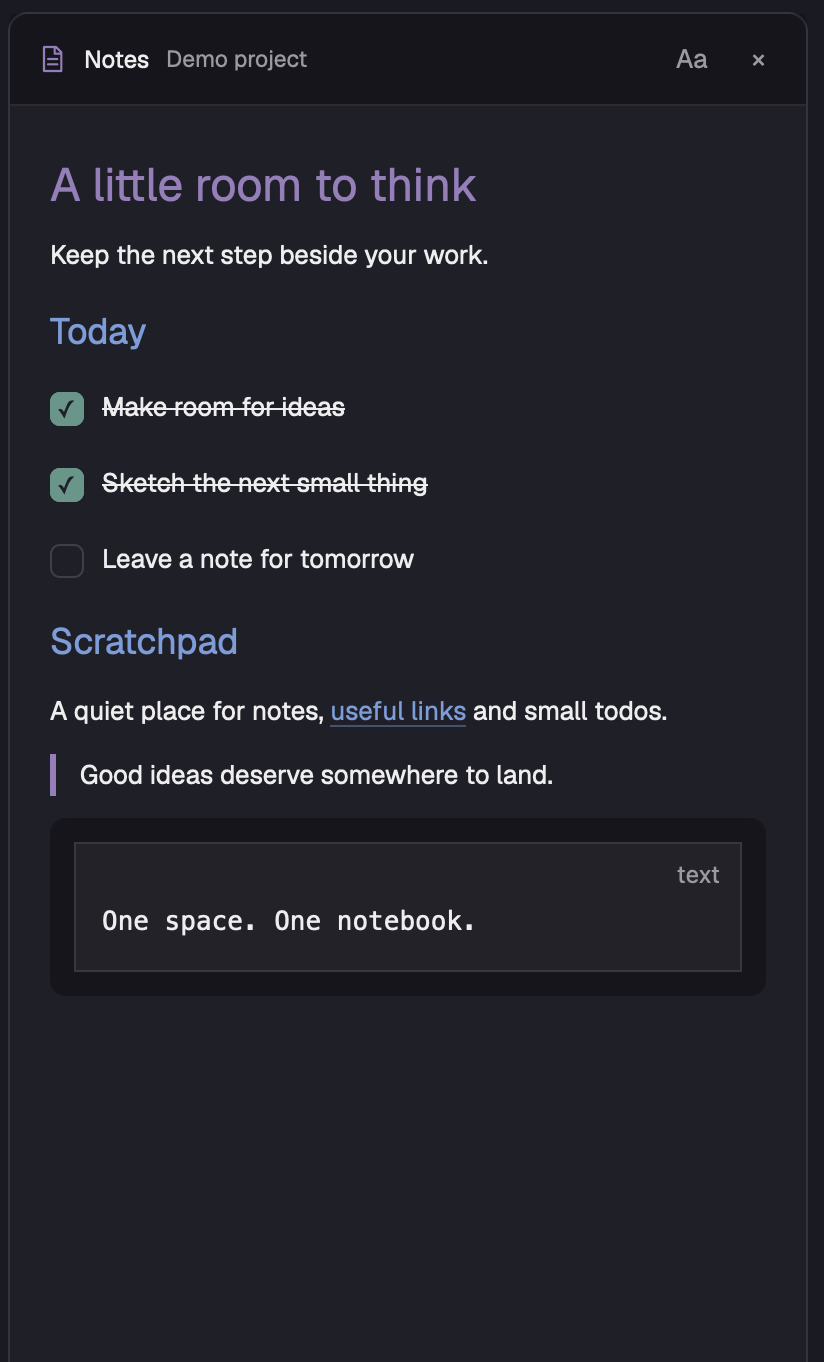
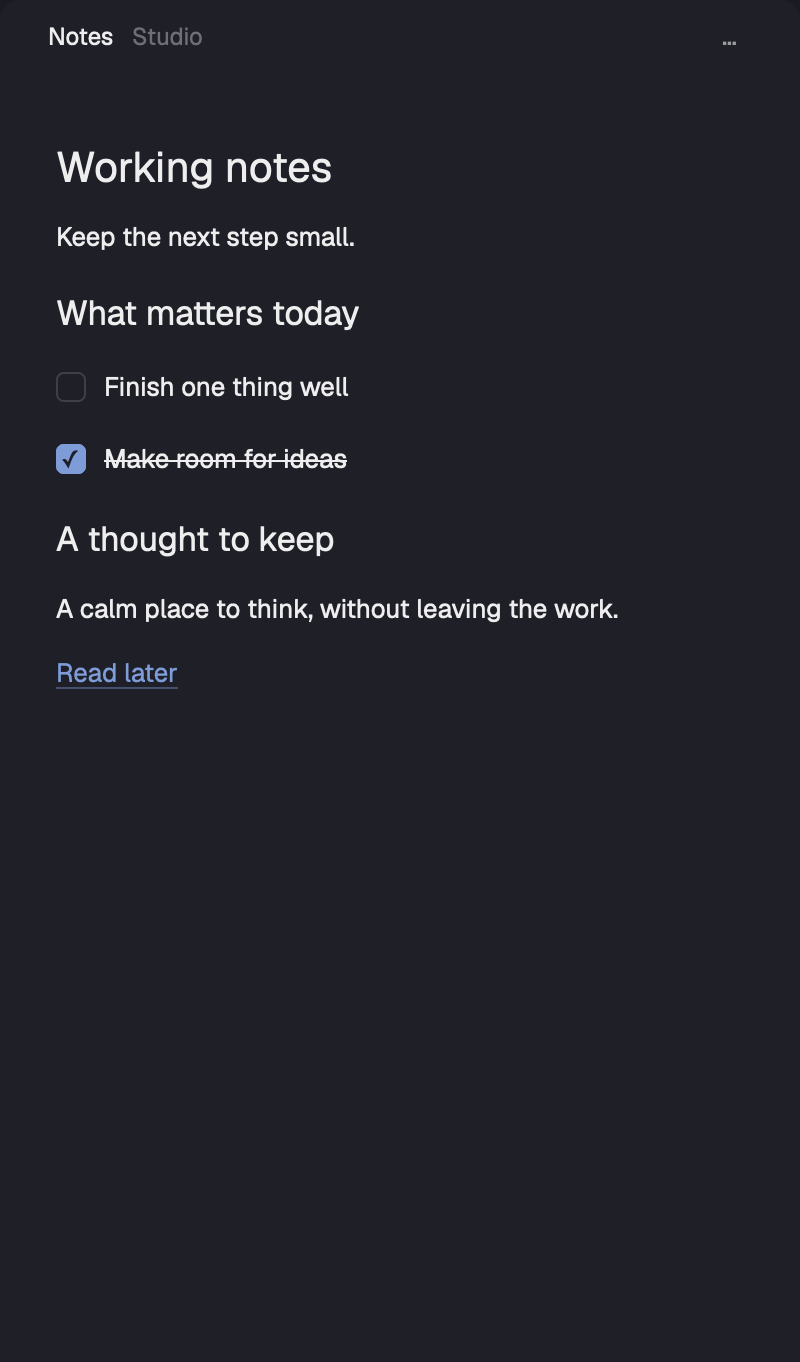
Apply Quiet Margin design to the native Notes sidebar

diff --git a/mods/notes/main.js b/mods/notes/main.js
@@ -1,11 +1,12 @@
-import { View, div, svg } from "gpui-kit";
+import { View, div } from "gpui-kit";
 import { v_flex, h_flex, TextareaState, Textarea, TextView, InputState, Input, Checkbox } from "gpui-base";
-import { spaces, theme, settings, run, home, window, exec, readTextFile, writeTextFile } from "herdr";
+import { spaces, theme, settings, home, window, exec, readTextFile, writeTextFile } from "herdr";
 import { blocks, toggleTask } from "./markdown.js";
 
 export default class Notes extends View {
   init(_props, cx) {
     this.pads = new Map();
+    this.menu = false;
     this.appearance = false;
     this.prefs = JSON.parse(localStorage.getItem("appearance") ?? "{}");
     this.fontInput = InputState.new({ placeholder: "Follow Herdr", value: this.prefs.font ?? "" });
@@ -135,16 +136,16 @@ export default class Notes extends View {
     if (block.type === "heading") {
       const level = block.text.match(/^\s*(#+)/)[1].length;
       content = div().pt(level === 1 ? 10 : 6).pb(3).font_semibold()
-        .text_size(size + (level === 1 ? 10 : level === 2 ? 5 : 2))
-        .text_color(level === 1 ? t.ansi5 : level === 2 ? t.ansi4 : t.ansi6)
+        .text_size(size + (level === 1 ? 8 : level === 2 ? 4 : 2))
+        .text_color(t.foreground)
         .child(block.text.replace(/^\s*#+\s+/, "").trimEnd());
     } else if (block.type === "task") {
       const match = block.text.match(/^(\s*[-*+] \[)([ xX])\] (.*)/);
       const checked = match[2] !== " ";
-      content = h_flex().items_start().gap(9).py(3)
+      content = h_flex().items_start().gap(9).py(2)
         .child(Checkbox.new(`task-${pad.id}-${block.start}`).id(`task-${block.start}`).checked(checked)
-          .accessibility_label(match[3]).mt(3).size(17).flex_none().rounded(5)
-          .border_1().border_color(checked ? t.ansi6 : t.input).bg(checked ? t.ansi6 : t.background)
+          .accessibility_label(match[3]).mt(3).size(15).flex_none().rounded(4)
+          .border_1().border_color(checked ? t.accent : t.input).bg(checked ? t.accent : t.background)
           .text_color(t.background).text_size(12).items_center().justify_center().flex().cursor_pointer()
           .on_mouse_down("left", (_e, cx) => cx.stop_propagation())
           .on_change((_checked, cx) => {
@@ -154,8 +155,8 @@ export default class Notes extends View {
           .child(TextView.markdown(`task-label-${pad.id}-${block.start}`, checked ? `~~${match[3]}~~` : match[3]).selectable(false)));
     } else {
       content = div().min_w(0)
-        .when(block.type === "code", el => el.p(12).rounded(8).bg(t.chrome).text_color(t.ansi3))
-        .when(block.type === "quote", el => el.pl(12).border_l(3).border_color(t.ansi5).text_color(t.muted))
+        .when(block.type === "code", el => el.rounded(6).text_color(t.muted))
+        .when(block.type === "quote", el => el.pl(12).border_l(2).border_color(t.accent).text_color(t.muted))
         .child(TextView.markdown(`note-block-${pad.id}-${block.start}`,
           block.type === "quote" ? block.text.replace(/^ {0,3}> ?/gm, "") : block.text).selectable(false)
           .on_link_click((url, cx) => { cx.open_url(url); cx.stop_propagation(); }));
@@ -171,7 +172,7 @@ export default class Notes extends View {
     const leading = this.prefs.leading ?? 1.6;
     const font = this.prefs.font || s.ui_font_family || "Geist";
     const button = (id, label, action, selected = false) => div().id(id).px(7).py(4).rounded(6).cursor_pointer()
-      .bg(selected ? t.selected : t.chrome).text_color(selected ? t.foreground : t.muted)
+      .when(selected, el => el.bg(t.selected)).text_color(selected ? t.foreground : t.muted)
       .hover(el => el.bg(t.hover).text_color(t.foreground)).on_click(action).child(label);
     const document = pad.loading
       ? div().text_color(t.dim).child("Opening your notebook…")
@@ -183,38 +184,48 @@ export default class Notes extends View {
         : v_flex().id("notes-reading").size_full().min_w(0).gap(5).overflow_y_scrollbar().cursor_text()
           .when(Boolean(pad.text.trim()), el => el.children(blocks(pad.text).map(b => this.section(pad, b, t, size))))
           .when(!pad.text.trim(), el => el.child(div().text_color(t.dim).child("Start writing…")));
-    return v_flex().size_full().min_w(0).min_h(0).rounded(10).border_1().border_color(t.border)
+    const closeMenu = cx => { this.menu = false; this.appearance = false; cx.notify(); };
+    const menuRow = (id, label, action) => div().id(id).w_full().px(12).py(8).rounded(5).cursor_pointer()
+      .text_size(12).text_color(t.foreground).hover(el => el.bg(t.hover)).on_click(action).child(label);
+    return v_flex().relative().size_full().min_w(0).min_h(0).rounded(10)
       .bg(t.background).text_color(t.foreground).font_family(font).text_size(size).line_height(`${size * leading}px`).overflow_hidden()
-      .child(h_flex().h(46).flex_none().px(13).gap(8).items_center().bg(t.chrome).border_b(1).border_color(t.border)
-        .child(svg("mods/notes/note.svg").size(16).text_color(t.ansi5))
+      .on_mouse_down_out((_e, cx) => { if (this.menu) closeMenu(cx); })
+      .child(h_flex().h(36).flex_none().px(24).gap(9).items_center()
         .child(div().text_size(12).font_semibold().child("Notes"))
-        .child(div().flex_1().min_w(0).truncate().text_size(11.5).text_color(t.muted).child(space.name))
+        .child(div().flex_1().min_w(0).truncate().text_size(12).text_color(t.dim).child(space.name))
         .when(Boolean(pad.saving), el => el.child(div().text_size(10).text_color(t.dim).child("Saving…")))
-        .child(button("notes-type", "Aa", (_e, cx) => { this.appearance = !this.appearance; cx.notify(); }, this.appearance))
-        .child(button("notes-close", "×", () => run("layout.hide", { id: "panel" }))))
-      .when(this.appearance, el => el.child(v_flex().px(15).py(12).gap(9).bg(t.chrome).border_b(1).border_color(t.border)
-        .child(h_flex().gap(6).items_center().text_size(11)
-          .child(button("font-herdr", "Follow Herdr", (_e, cx) => { this.fontInput.set_value(""); this.preference("font", "", cx); this.preference("size", null, cx); this.preference("leading", null, cx); }))
-          .child(button("font-smaller", "A−", (_e, cx) => this.preference("size", Math.max(11, size - 1), cx)))
-          .child(div().text_color(t.muted).child(String(size)))
-          .child(button("font-larger", "A+", (_e, cx) => this.preference("size", Math.min(24, size + 1), cx))))
-        .child(Input.new(this.fontInput).h(30).px(8).rounded(6).border_1().border_color(t.input).bg(t.background).text_size(12))
-        .child(div().text_size(10.5).text_color(t.dim).child("Font family · leave empty to follow Herdr"))
-        .child(h_flex().gap(5).text_size(11).children([[1.4, "Compact"], [1.6, "Comfortable"], [1.85, "Spacious"]].map(([value, label]) =>
-          button(`leading-${value}`, label, (_e, cx) => this.preference("leading", value, cx), leading === value))))))
-      .when(Boolean(pad.error), el => el.child(v_flex().px(15).py(10).gap(6).text_size(11).text_color(t.ansi1)
+        .child(button("notes-menu", "…", (_e, cx) => {
+          this.menu = !this.menu; if (!this.menu) this.appearance = false; cx.notify();
+        }, this.menu).accessibility_label("Notes menu").tooltip("Appearance and file actions")))
+      .when(Boolean(pad.error), el => el.child(v_flex().px(24).py(10).gap(6).text_size(11).text_color(t.ansi1)
         .child(pad.error).child(button("notes-retry", "Retry", (_e, cx) => {
           if (pad.id) this.save(pad, cx);
           else { this.directory = this.prepareDirectory(); this.load(space, cx); }
         }))))
-      .child(div().id("notes-document").flex_1().min_h(0).min_w(0).px(20).py(16)
-        .on_click((_e, cx) => this.begin(pad, cx))
+      .child(div().id("notes-document").flex_1().min_h(0).min_w(0).px(28).pt(24).pb(28)
+        .on_click((_e, cx) => { if (this.menu) closeMenu(cx); this.begin(pad, cx); })
         .on_mouse_down_out((_e, cx) => this.finish(pad, cx)).child(document))
-      .child(div().id("notes-file").flex_none().px(15).py(9).border_t(1).border_color(t.border).text_size(10.5)
-        .text_color(t.dim).truncate().cursor_pointer().hover(el => el.text_color(t.accent))
-        .tooltip(`${pad.path}\nClick to reveal · Right-click to copy path`)
-        .on_mouse_down("right", (_e, cx) => { cx.write_to_clipboard(pad.path); cx.stop_propagation(); })
-        .on_click((_e, cx) => this.reveal(pad, cx)).child(pad.path.replace(this.dir, "…/Herdr/notes")));
+      .when(this.menu, el => el.child(v_flex().id("notes-menu-body").absolute().top(34).right(12).w(252)
+        .p(6).gap(2).rounded(8).bg(t.popover).border_1().border_color(t.border).shadow_md()
+        .on_mouse_down("left", (_e, cx) => cx.stop_propagation())
+        .child(menuRow("notes-appearance", "Appearance", (_e, cx) => { this.appearance = !this.appearance; cx.notify(); }))
+        .when(this.appearance, el => el.child(v_flex().px(6).py(8).gap(9)
+          .child(h_flex().gap(5).items_center().text_size(11)
+            .child(button("font-herdr", "Follow Herdr", (_e, cx) => {
+              this.fontInput.set_value(""); this.preference("font", "", cx);
+              this.preference("size", null, cx); this.preference("leading", null, cx);
+            }))
+            .child(button("font-smaller", "A−", (_e, cx) => this.preference("size", Math.max(11, size - 1), cx)))
+            .child(div().text_color(t.muted).child(String(size)))
+            .child(button("font-larger", "A+", (_e, cx) => this.preference("size", Math.min(24, size + 1), cx))))
+          .child(Input.new(this.fontInput).h(30).px(8).rounded(5).border_1().border_color(t.input).bg(t.background).text_size(12))
+          .child(div().text_size(10).text_color(t.dim).child("Font family · empty follows Herdr"))
+          .child(h_flex().gap(3).text_size(10).children([[1.4, "Compact"], [1.6, "Normal"], [1.85, "Roomy"]].map(([value, label]) =>
+            button(`leading-${value}`, label, (_e, cx) => this.preference("leading", value, cx), leading === value))))))
+        .child(menuRow("notes-reveal", "Reveal file", (_e, cx) => { closeMenu(cx); this.reveal(pad, cx); }))
+        .child(menuRow("notes-copy-path", "Copy path", (_e, cx) => { cx.write_to_clipboard(pad.path); closeMenu(cx); }))
+        .child(div().px(12).py(6).text_size(10).text_color(t.dim).truncate().tooltip(pad.path)
+          .child(pad.path.replace(this.dir, "…/Herdr/notes")))));
   }
 
   async close() {

diff --git a/RECIPE.md b/RECIPE.md
@@ -1,6 +1,6 @@
 # Notes
 
-Keep one continuous Markdown note beside your terminals in Herdr. Notes opens from the same tab-bar controls as Files and Changes. Click the page to write anywhere in the whole note; leaving it restores formatted Markdown automatically. The interface stays quiet: a small title, an Aa appearance menu, the page, and a useful file path. There are no paragraph boxes, add-block buttons or Write/Preview tabs.
+Keep one continuous Markdown note beside your terminals in Herdr. Notes opens from the same tab-bar controls as Files and Changes. Click the page to write anywhere in the whole note; leaving it restores formatted Markdown automatically. The interface stays quiet: a small title, the continuous page, and one overflow menu for appearance and file actions. There are no paragraph boxes, add-block buttons or Write/Preview tabs.
 
 ![Notes](preview.png)
 
@@ -10,15 +10,17 @@ Use the default Herdr window: a 268px spaces/agents sidebar, the terminal work a
 
 The right panel starts at 400px and resizes between 280px and 900px. Files, Changes and Notes share it, one shown at a time. Notes is always available; the other two follow existing panel preferences. Start the panel closed unless the tab bar restores a saved choice for that space.
 
-The Notes card has 10px corners and a 1px border. Its 46px header contains a 16px outline document icon, a 12px semibold Notes title, an 11.5px truncated space name, transient Saving… text, Aa and ×. The page has 20px horizontal and 16px vertical padding and fills the remaining height. The bottom path strip has 15px horizontal and 9px vertical padding, 10.5px dim text, and a top border. No task-count or permanent Saved footer.
+The Notes surface has 10px corners and no extra card border. A 36px header has 24px horizontal padding, a 12px semibold Notes label, a 12px dim truncated space name, transient Saving… text, and one overflow button. No document icon, Aa button, close button, mode toggle, persistent save status, task count or footer. The document fills the remaining height with 28px horizontal padding, 24px top padding and 28px bottom padding.
 
-Use theme colors rather than a fixed palette. The title/icon and first-level Markdown headings use ansi5; second-level headings use ansi4; deeper headings and completed tasks use ansi6. Body text is foreground, secondary text muted/dim, and code surfaces chrome. Quotes have an ansi5 left border. Heading sizes are body size +10px for H1, +5px for H2 and +2px for the rest. The body follows Herdr's UI font/size, falling back to Geist and 14px. Default line spacing is 1.6 times body size, expressed as an explicit pixel length.
+Use the person's current Herdr theme and fonts rather than hardcoding the mock's graphite/sage palette. Body and every heading use foreground; links and native controls follow the host theme, checkboxes and quotes use accent, and secondary text uses muted/dim. Heading sizes are body +8px for H1, +4px for H2 and +2px for deeper levels. Task controls are 15px with 4px corners; completed text is struck through. Quotes have a 2px accent line. Use the native code renderer without a second padded card around it.
 
-Aa expands a compact inline area: Follow Herdr, A−, the current size and A+; a text field for a custom font family; and Compact, Comfortable and Spacious spacing choices (1.4, 1.6 and 1.85). Sizes range from 11 to 24px. The preview is a crop of the real right panel with disposable Demo project text; use it as both preview.png and layouts/notes.png. Do not seed demo text into real notes.
+The body follows Herdr's normalized ui_font_family/ui_font_size settings, falling back to Geist and 14px. Default line spacing is 1.6 times the body size, stated with explicit px units. The overflow menu is a 252px-wide absolute overlay, 34px from the top and 12px from the right, with 6px padding, 8px corners, the popover background and a subtle border/shadow. Its rows are Appearance, Reveal file and Copy path, each with 12px horizontal and 8px vertical padding. The abbreviated path is shown only at the bottom of this menu, with its full path in a tooltip.
+
+Appearance expands inside the menu, with Follow Herdr, A−, the current size and A+; a text input for a font family; and Compact, Normal and Roomy choices (1.4, 1.6, 1.85). Font sizes range from 11 to 24px. The preview is a crop of the actual native reading view using a disposable Studio note. Supply it as preview.png and layouts/notes.png. Demo text is not seeded into real pads.
 
 ## How it behaves
 
-Click Notes to select/show the panel; clicking it again or × closes it. Files and Changes retain their behavior. Panel selection/closed state is remembered per space, and the edge resizes by dragging. Tabs inside the same space share a note.
+Click Notes to select/show the panel; clicking it again closes it. Files and Changes retain their behavior. Panel selection/closed state is remembered per space, and the edge resizes by dragging. Tabs inside the same space share a note.
 
 The formatted page is a continuous reading surface. Click anywhere in its body to open one native multiline text control containing the entire Markdown document. Do not edit paragraphs or headings separately, add per-paragraph hover boxes, or insert separators automatically. The first entry puts the cursor at the end for quick note-taking. Reuse that text control on later entries; refresh its value only if a checkbox changed the source while reading. Text selection, normal text editing, soft wrapping and scrolling belong to the native control.
 
@@ -28,7 +30,7 @@ In reading mode, native checkbox controls toggle task markers directly without o
 
 Every text change immediately records a local recovery draft and schedules a file save after 350ms of inactivity. File writes are serialized; edits arriving during a write are saved afterward. Show Saving… only while writing, and show failures with Retry. On success, remove the matching recovery draft. No manual save step is required.
 
-Click the path to reveal the file (or the folder on Linux); right-click copies the full path. The visible abbreviated path has a tooltip with the full path and both actions. Aa preferences persist independently of note text, and Follow Herdr clears the font/size/spacing overrides. Ordinary hover backgrounds apply to controls, never to individual paragraphs.
+Open the overflow menu for Appearance, Reveal file and Copy path. Appearance expands within it; Reveal file opens the real file location (or the folder on Linux), and Copy path writes the full path to the clipboard. File actions close the menu. Clicking the document closes the menu and starts editing; clicking outside Notes closes it. Appearance preferences persist independently of note text, and Follow Herdr clears the font/size/spacing overrides. Ordinary hover backgrounds apply to controls, never to individual paragraphs.
 
 Preserve inherited tab selection, close, new-tab menu, right-click menu, double-click rename, press/release reordering, wheel navigation and platform window buttons. Working tabs have a native rotating spinner in the working color; blocked/done tabs have their colored dot; idle tabs have no activity marker. Space/agent status and navigation remain shipped behavior. Notes never changes agent status or sends terminal input. Install no new global keybindings.
 
@@ -38,7 +40,7 @@ Clone the installed Herdr 0.1.13 main layout into layouts/notes.json, preserving
 
 Use shipped workspace-chrome, spaces, agents, pane, files, changes, workspace-status, menu and new-menu mods and their assets. Clone tabs into notes-tabs, including its four Windows button SVGs and clone metadata. Rewrite its own SVG paths. Add notes to the enabled panel IDs locally without changing shared workspace.panels. Add the Notes button with the existing panel select/show/hide behavior, preserving the tab bar's saved per-space panel map and platform chrome.
 
-Create mods/notes/main.js, markdown.js, mod.json (place none, title Notes) and an original note.svg (24px outline page, folded corner, two text lines). The main View uses div/svg from gpui-kit and flex, TextareaState/Textarea, TextView, InputState/Input and Checkbox from gpui-base. Read spaces, theme, settings, window and home from herdr; call run, exec, readTextFile and writeTextFile. Neither custom mod needs props.
+Create mods/notes/main.js, markdown.js, mod.json (place none, title Notes) and an original note.svg (24px outline page, folded corner, two text lines). The main View uses div/svg from gpui-kit and flex, TextareaState/Textarea, TextView, InputState/Input and Checkbox from gpui-base. Read spaces, theme, settings, window and home from herdr; call exec, readTextFile and writeTextFile. Neither custom mod needs props.
 
 Keep a Map of loaded pads per space ID. Each pad holds its path, raw Markdown, last disk snapshot, error/save/loading state and one lazily created native input. Loading a newly selected space starts one asynchronous file read and caches the pad immediately; native text states are created in initialization or a real edit event, never during render. The full-note input updates only its captured pad, even if the active space changes. On close, flush localStorage for recovery.
 
@@ -54,7 +56,7 @@ Read the installed AGENTS.md and generated type files first. Use native GPUI, no
 
 An async callback runs immediately until its first await; spawning alone does not leave the render phase. Never create native text state while rendering or notify during render. Never retain a callback's context across an await; use the context given to the spawned task. Use no redraw timer. The 350ms timer is a cancellable save debounce, not an animation or poll.
 
-A bare numeric line_height was visually wrong in this runtime: use a string with px units. Textarea fills the page and owns its scroll; do not wrap it in another scrolling document or size it as a small paragraph editor. Avoid setting its value on every render, which would disrupt selection. A native check only covers eager rendering; also show the full-note editor and font controls in the actual app.
+A bare numeric line_height was visually wrong in this runtime: use a string with px units. Textarea fills the page and owns its scroll; do not wrap it in another scrolling document or size it as a small paragraph editor. Avoid setting its value on every render, which would disrupt selection. A native check only covers eager rendering; also show the full-note editor and menu and appearance controls in the actual app.
 
 Notes are local per-space data, not repository files or cross-device sync. Renaming a space keeps its file; a new ID gets a new file. External edits load when the mod reloads; there is no filesystem watcher in this version. Conflicts require manual merging. Local recovery reduces the risk of closing during the debounce but is not a guarantee after forced termination before its storage flush. Reads are limited to the host's 1 MiB text-file limit. Task detection is intended for ordinary bullet checklists and fenced code, not every Markdown dialect. Heading labels are native text rather than a full inline-Markdown editor.
 
@@ -67,7 +69,7 @@ Linux/Windows code paths have not been runtime-tested; macOS is verified. Never 
 - Clicking the page produces one full-height native editor containing the exact entire note. Clicking outside or blurring returns to formatted text without changing source or adding separators.
 - The same input is reused when re-entering, and an edit from one space still saves to that space after selection changes.
 - Clickable task controls update only their source marker; fenced task examples are preserved.
-- Fonts follow Herdr by default and Aa preferences persist separately. The path reveals the real Markdown file and can be copied.
+- Fonts follow Herdr by default and appearance preferences persist separately. The menu reveals the real Markdown file and copies its full path.
 - Existing local-storage notes migrate without deleting the old key; existing files take precedence; recoverable drafts restore only against their matching base.
 - File-save failures preserve the draft, and a conflicting external edit is not overwritten, including by Retry. Overlapping saves finish with the newest text.
 - node --test tests/notes.test.mjs passes. The tests mock native controls and file APIs; do not claim physical keyboard or process-restart testing.

diff --git a/README.md b/README.md
@@ -1,6 +1,6 @@
 # Herdr Notes
 
-One continuous Markdown note per space, beside Files and Changes. Click anywhere in the page to write; click away to see it formatted automatically. No mode toggle, paragraph boxes or add-block controls.
+Quiet Margin: one continuous Markdown note per space, beside Files and Changes. Click anywhere in the page to write; click away to see it formatted automatically. No mode toggle, paragraph boxes or add-block controls.
 
 <img src="preview.png" alt="Herdr Notes with theme-colored Markdown headings and tasks" width="412">
 
@@ -8,11 +8,11 @@ One continuous Markdown note per space, beside Files and Changes. Click anywhere
 
 Click **Notes** beside Files and Changes to open or close the sidebar. Click the note to edit the whole document. The first edit starts with the cursor at the end so you can add a thought immediately. Later edits reuse the same native text control. Click outside the page, press Escape, or use the platform modifier plus Enter to return to formatted reading. All edits autosave; there is no Save button.
 
-Use **Aa** to set a font family, size (11–24px), and Compact/Comfortable/Spacious line spacing. **Follow Herdr** resets those overrides. By default, Notes uses Herdr's UI font and size. Heading colors, checkboxes, links, quotes and code surfaces follow the current theme.
+Open **… → Appearance** to set a font family, size (11–24px), and Compact/Normal/Roomy line spacing. **Follow Herdr** resets those overrides. By default, Notes uses Herdr's UI font and size. Neutral headings, smaller checkboxes, links and quotes follow the current theme. The 36px header has only Notes, the space name and the menu; there is no permanent footer, document icon, Aa button or close button. Close the panel with its Notes tab-bar button.
 
 In the formatted view, task checkboxes update the Markdown directly. Clicking text anywhere else opens the same whole-note editor. Headings and paragraphs are never separate editing targets. This is automatic preview when you leave the editor. Cursor-based live preview, where only the active line shows source, is not implemented: Herdr 0.1.13 exposes neither a cursor-position getter nor a selection-change event to mods. The source editor supports normal text selection, native editing and soft wrapping. Task-list continuation and a formatting toolbar are not implemented.
 
-The small file path is useful: click it to reveal the Markdown file; right-click to copy its full path. Saving status appears only during a file write, and failures stay visible beside Retry.
+The same **…** menu contains **Reveal file**, **Copy path**, and an abbreviated path with the full path in its tooltip. Saving status appears only during a file write, and failures stay visible beside Retry.
 
 ## Install
 
@@ -50,7 +50,7 @@ To return to the default layout, run `herdr-app do layout.switch '{"name":"main"
 node --test tests/notes.test.mjs
 ```
 
-Eleven tests exercise the actual Notes class with mocked controls and file storage: migration, restoration, space isolation, safe creation, continuous editing, automatic preview, task changes, failures, draft recovery, conflict protection, overlapping saves and appearance preferences. Native runtime checks and disposable demo screenshots also verify the formatted view, full-note text control and font menu. Physical keyboard input and an app restart are not automated.
+Twelve tests exercise the actual Notes class with mocked controls and file storage: migration, restoration, space isolation, safe creation, continuous editing, automatic preview, task changes, failures, draft recovery, conflict protection, overlapping saves and appearance preferences. Native runtime checks and disposable demo screenshots also verify the formatted view, full-note text control and font menu. Physical keyboard input and an app restart are not automated.
 
 The preview uses disposable demo text and is cropped to exclude private workspace content. Neither live notes nor personal settings are in this repository.
 

diff --git a/design-qa.md b/design-qa.md
@@ -1,0 +1,24 @@
+# Quiet Margin verification
+
+final result: passed
+
+Scope: the mod-level Quiet Margin visual design, menu and existing continuous editing behavior. Cursor-based preview and focus/typewriter behavior are not implemented: the installed Herdr 0.1.13 bridge still lacks the needed cursor and rendering hooks. This result is not a claim that the full conceptual editor interaction was delivered.
+
+## Visual comparison
+
+Compared the selected Quiet Margin mock with a crop of the actual native panel at a comparable sidebar viewport. Both use the same Studio/Working notes content. Checked the reading view, compact menu, expanded appearance controls and whole-note native text editor.
+
+- Header is reduced to Notes, space context and one overflow action; icon, Aa button, separate close action and permanent footer are removed.
+- Document margins and top spacing are increased. Headings are neutral and smaller than the preceding implementation; tasks use smaller native controls.
+- Appearance, Reveal file and Copy path fit inside the menu without clipping. The path stays hidden while writing.
+- The source editor fills the document region with no paragraph frames. Font family and size are applied to the raw text as well as the rendered view.
+- The native panel retains the person's Herdr palette and configured UI size. This intentionally differs from the mock's fixed sage accent and illustrative typography scale. Native Markdown links follow the host renderer.
+- Reference shows an active source heading amid formatted text. Current native capture is a reading view; source is still whole-document while editing. That feasibility limit was established before this visual pass and remains documented.
+
+## Validation
+
+- `herdr-app check` passes for both custom mods.
+- Twelve tests pass, including migration, recovery, file conflicts, concurrent saves, continuous editing, fonts and menu/copy behavior.
+- Native reading, menu, appearance and editing states were rendered and visually inspected using a disposable fixture. Physical pointer/keyboard interaction with the real Notes pad was not automated.
+- No new Notes error was reported by the running app. A pre-existing remote-machine connectivity error remains outside this change.
+- Only the sanitized demo panel is included in the public preview. Raw terminal-containing app frames remain outside the repository. Temporary demo UI is removed after verification; demo Markdown is retained in case it was edited.
